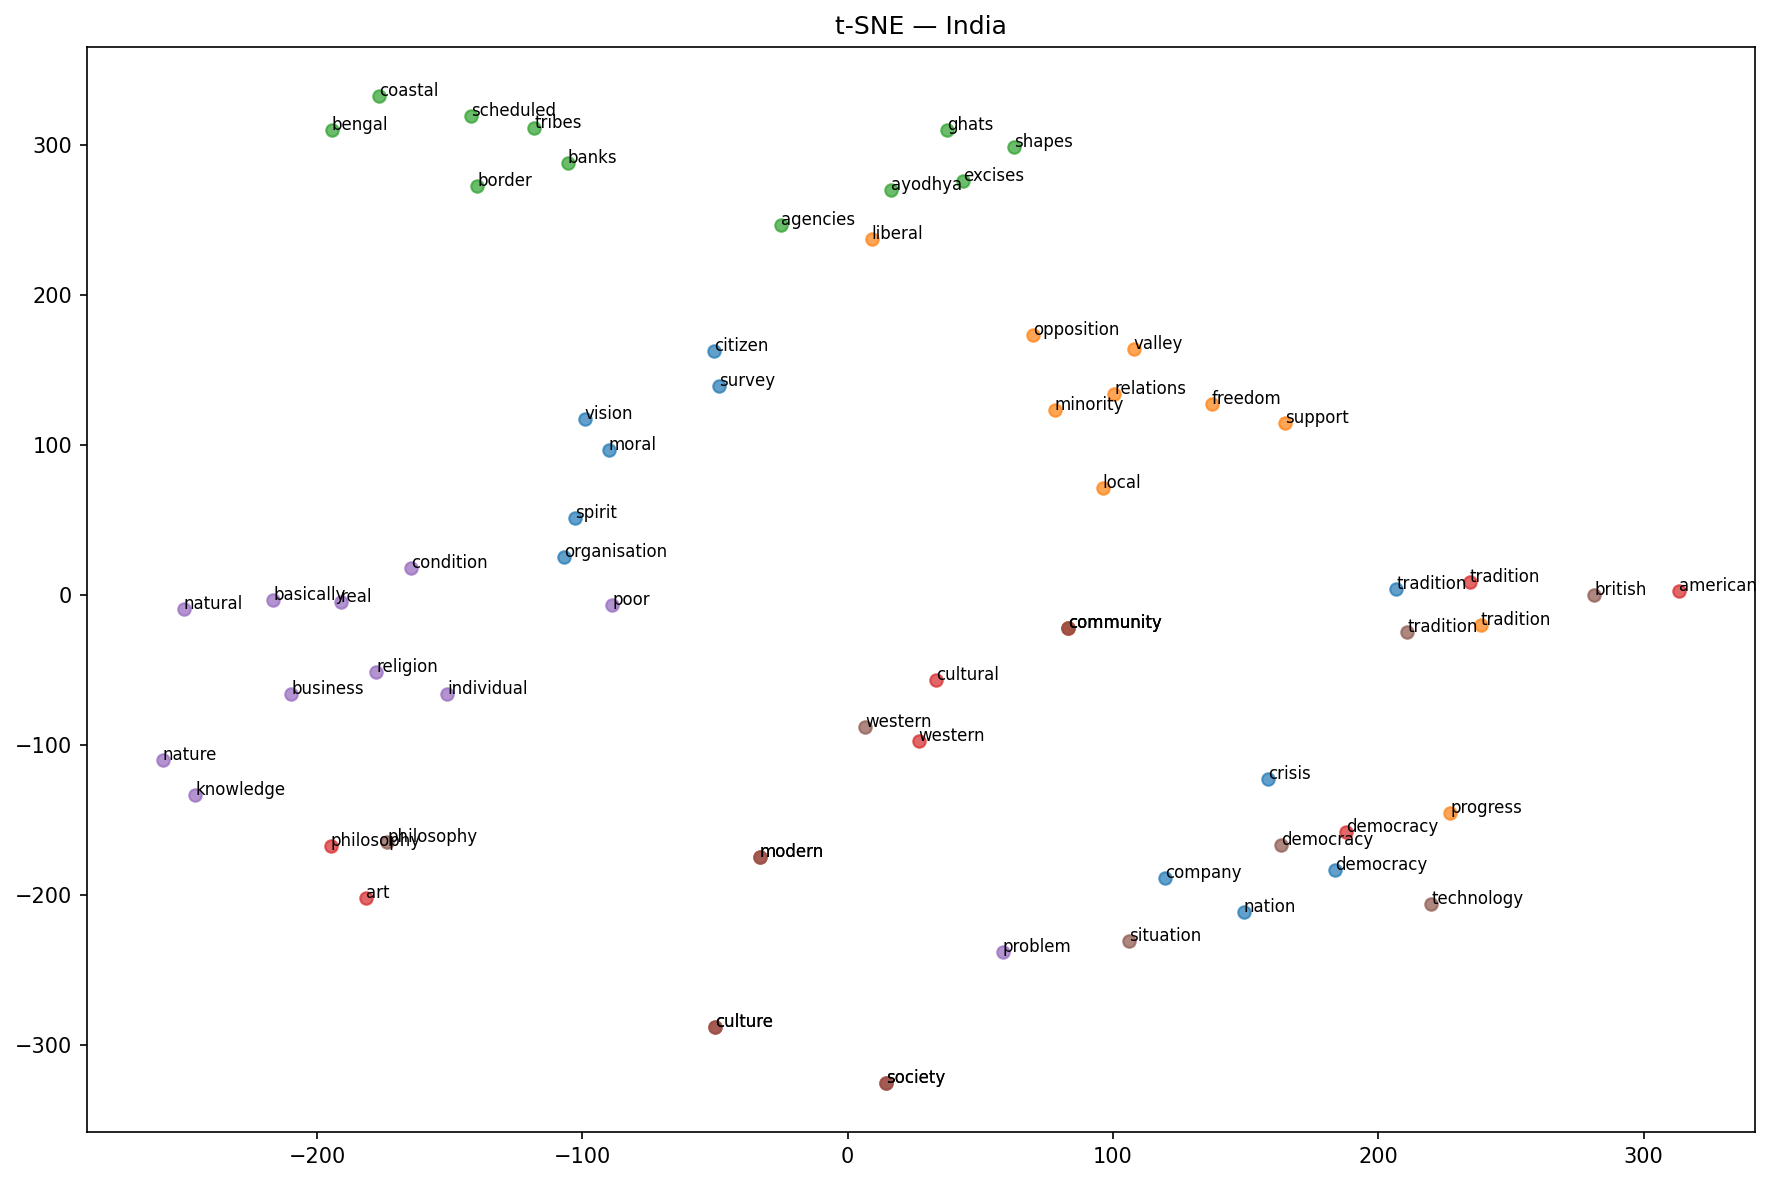
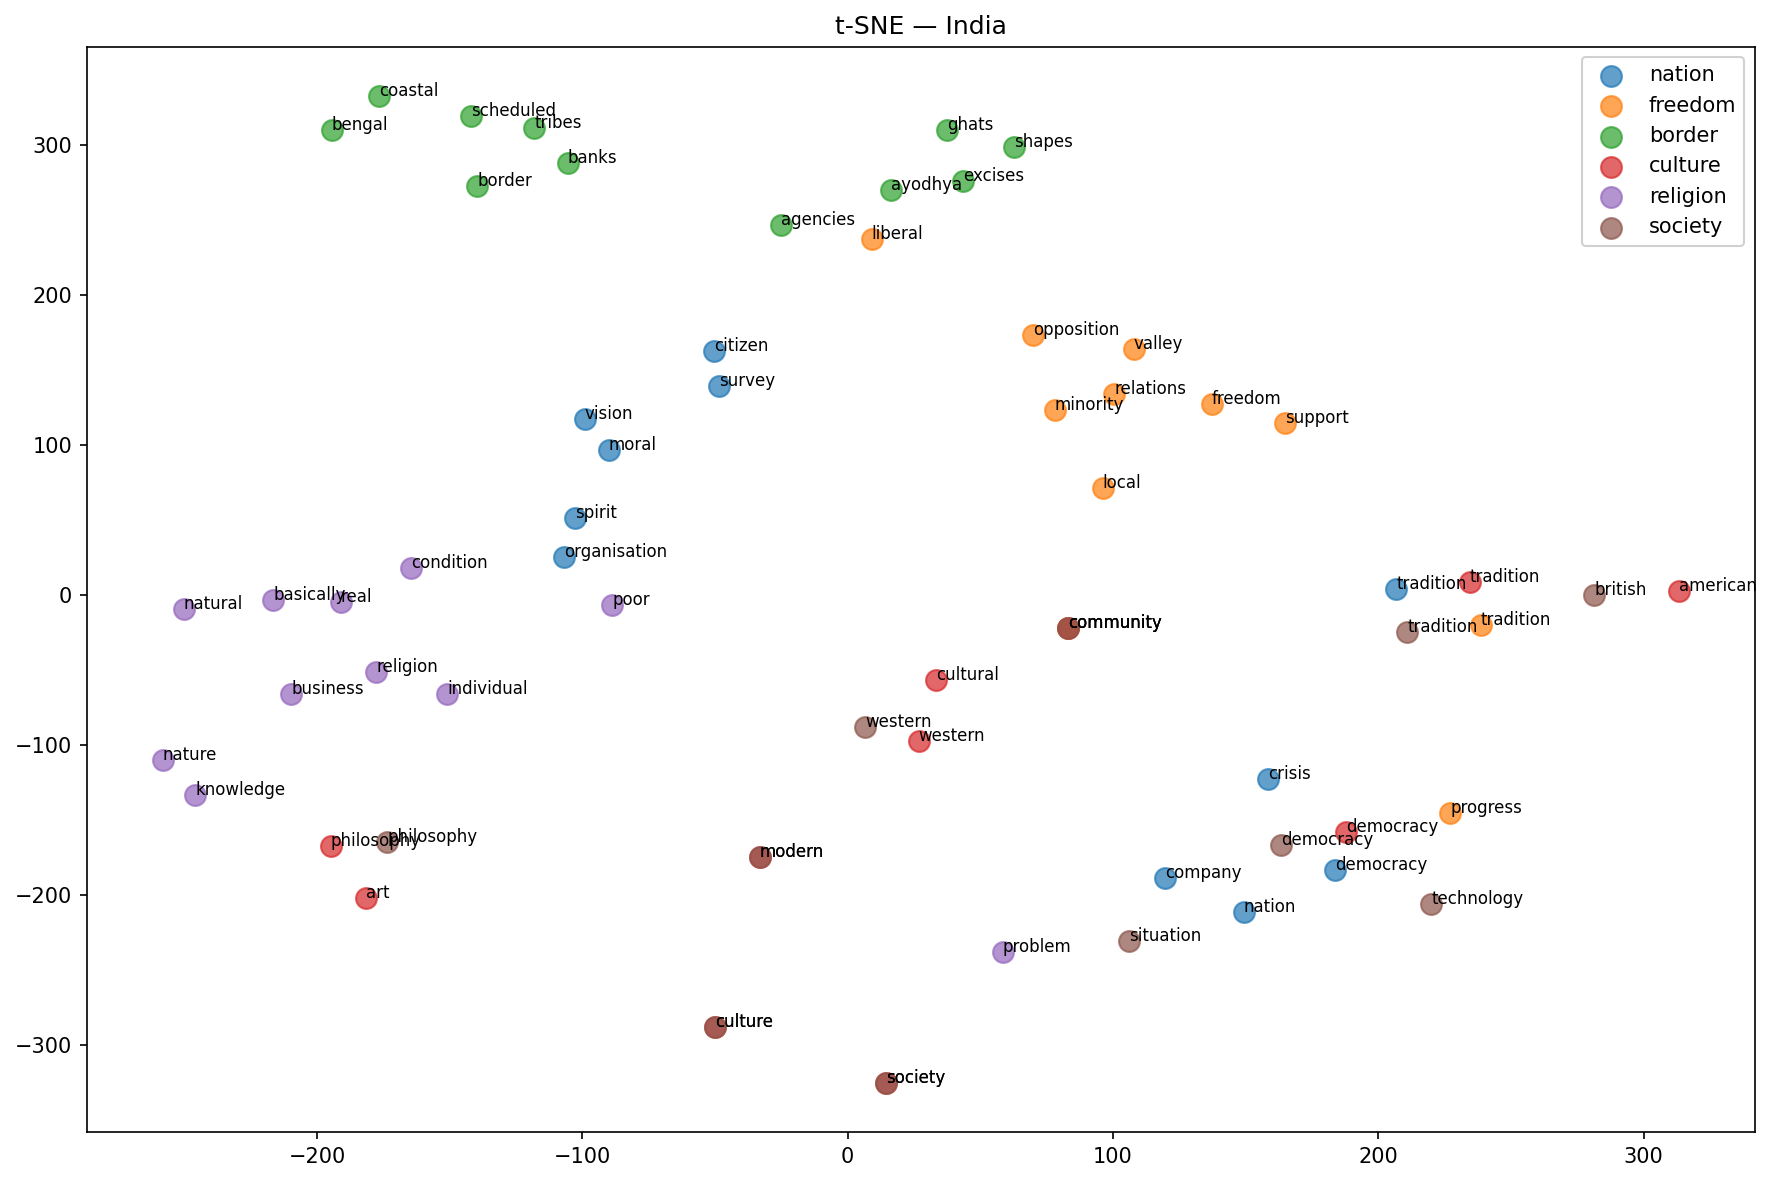
Adding legends for t-SNE Plots

diff --git a/Models/Word2Vec/Visualizations.py b/Models/Word2Vec/Visualizations.py
@@ -11,7 +11,7 @@ matplotlib.use('Agg')  # Use non-interactive backend
 def plot_tsne(model, keywords, corpus_name):
     words = []
     vectors = []
-    colors = []
+    color_indices = []  # Track which keyword index each point corresponds to
     color_map = matplotlib.colormaps["tab10"]
 
     for i, kw in enumerate(keywords):
@@ -22,7 +22,7 @@ def plot_tsne(model, keywords, corpus_name):
             if word in model.wv:
                 words.append(word)
                 vectors.append(model.wv[word])
-                colors.append(color_map(i))
+                color_indices.append(i)
 
     if len(words) < 4:
         print(f"Not enough words for t-SNE in {corpus_name}")
@@ -35,10 +35,21 @@ def plot_tsne(model, keywords, corpus_name):
     coords = tsne.fit_transform(np.array(vectors))
 
     plt.figure(figsize=(12, 8))
+    
+    # Plot each keyword with its corresponding color and legend entry
+    for i, kw in enumerate(keywords):
+        mask = [idx == i for idx in color_indices]
+        if any(mask):  # Only plot if this keyword has points
+            coords_subset = coords[mask]
+            plt.scatter(coords_subset[:, 0], coords_subset[:, 1], 
+                       color=color_map(i), alpha=0.7, label=kw, s=100)
+    
+    # Add word labels
     for i, word in enumerate(words):
-        plt.scatter(coords[i, 0], coords[i, 1], color=colors[i], alpha=0.7)
         plt.annotate(word, coords[i], fontsize=8)
+    
     plt.title(f"t-SNE — {corpus_name}")
+    plt.legend(loc='best', framealpha=0.9)
     plt.tight_layout()
     plt.savefig(BASE_DIR / f"tsne_{corpus_name}.png", dpi=150, bbox_inches="tight")
     plt.close()  # Close to free memory
